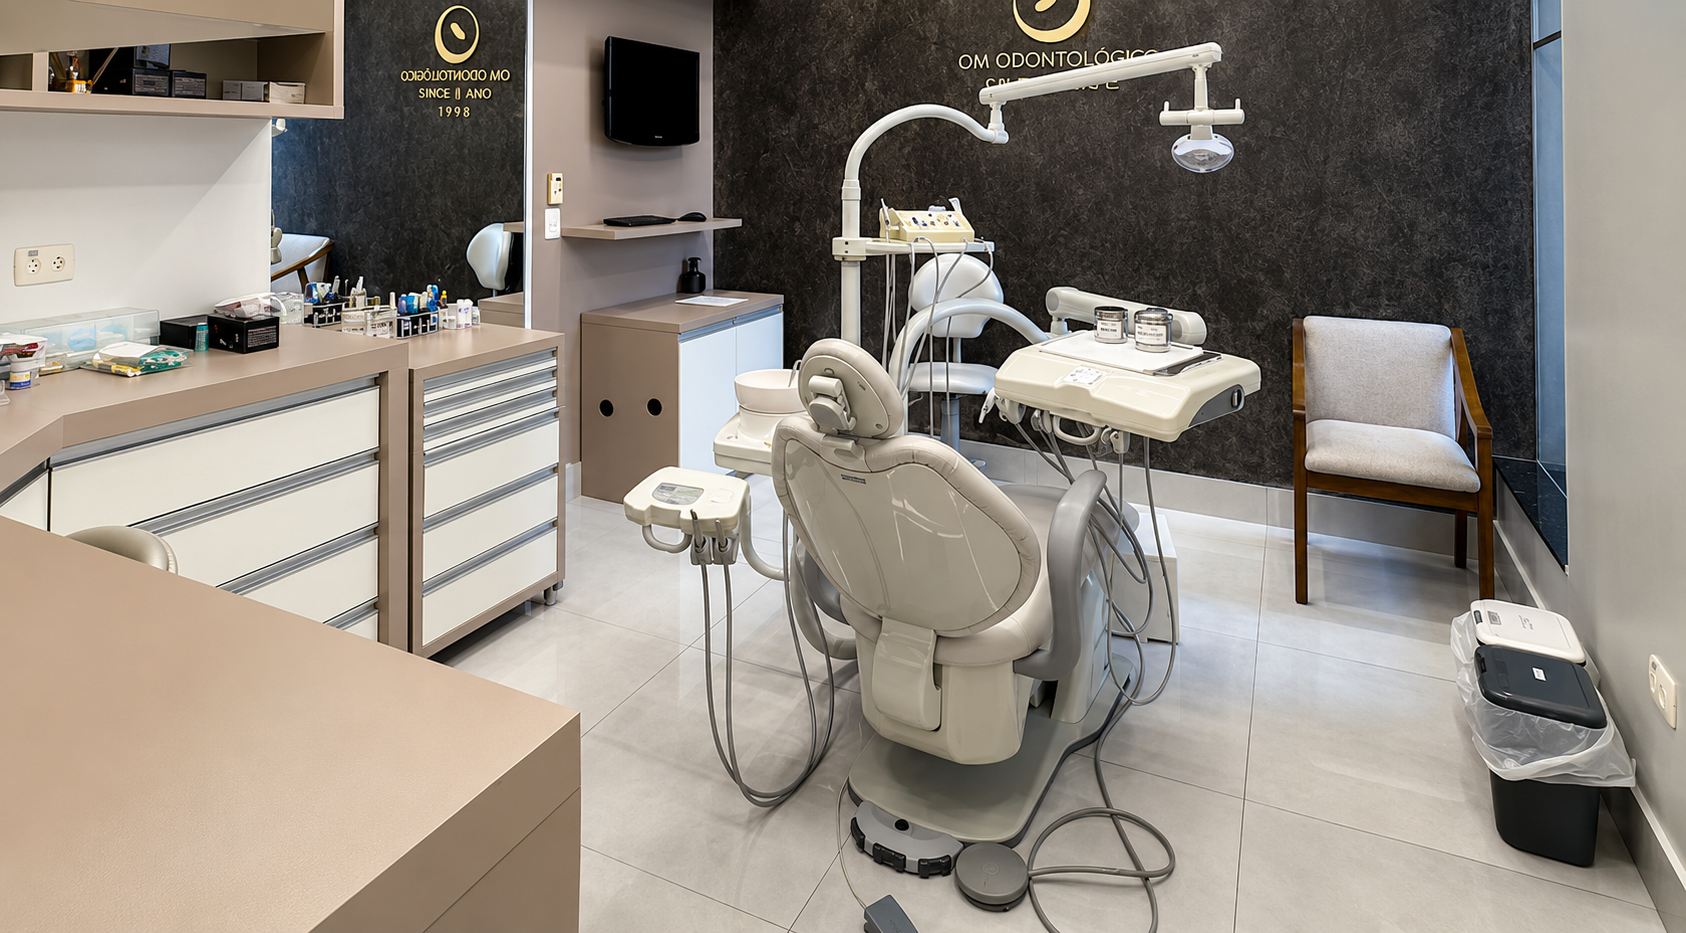
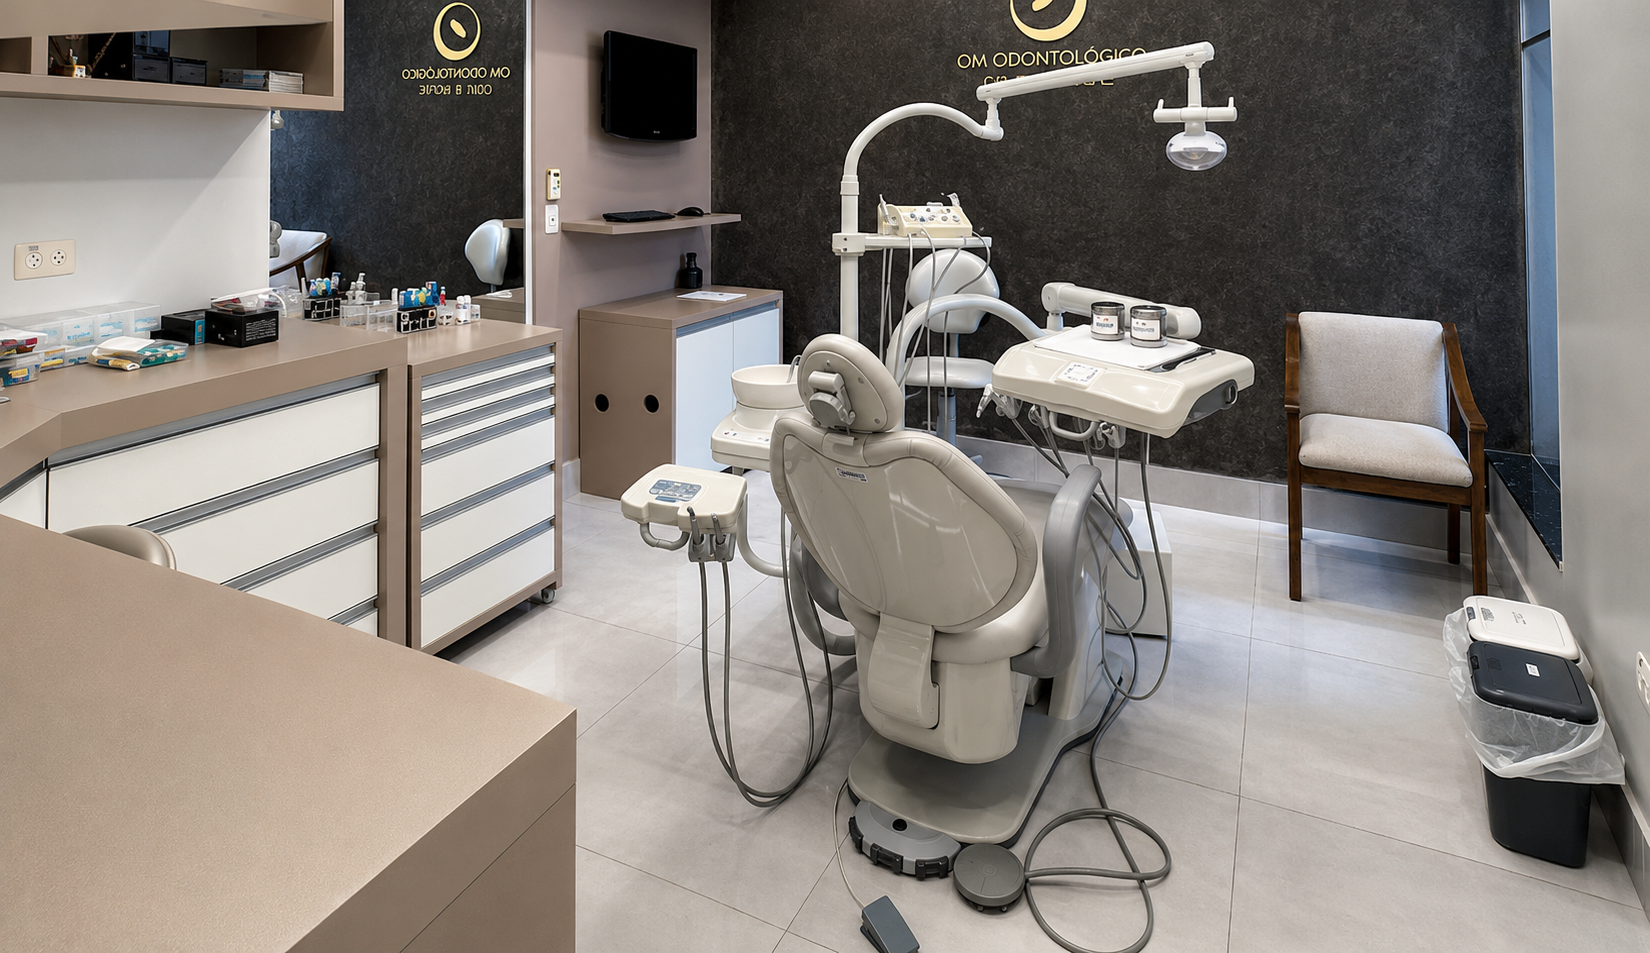
Remocao da subpagina estrutura, centralizacao do conteudo de exames/tecnologia na pagina A Clinica e atualizacao da foto como-funciona

diff --git a/a-clinica/index.html b/a-clinica/index.html
@@ -40,7 +40,6 @@
       <a href="/tratamentos/">Tratamentos</a>
       <a href="/como-funciona-o-atendimento/">Como funciona</a>
       <a href="/especialistas/">Especialistas</a>
-      <a href="/estrutura-e-tecnologia/">Estrutura</a>
       <a href="/a-clinica/">A clínica</a>
       <a href="/duvidas-frequentes/">Dúvidas</a>
     </nav>
@@ -58,24 +57,72 @@
     <a href="/tratamentos/">Tratamentos</a>
     <a href="/como-funciona-o-atendimento/">Como funciona</a>
     <a href="/especialistas/">Especialistas</a>
-    <a href="/estrutura-e-tecnologia/">Estrutura</a>
     <a href="/a-clinica/">A clínica</a>
     <a href="/duvidas-frequentes/">Dúvidas</a>
     <a class="mobile-menu__cta" href="https://wa.me/5514998659506" target="_blank" rel="noopener">Agendar avaliação</a>
   </nav>
 </header>
 <main id="conteudo">
-<section class="page-hero"><div class="page-hero__shell"><div class="breadcrumbs"><a href="/">Início</a> / A clínica</div><span class="eyebrow">Rua A de Souza Castro, 92</span><h1>Veja o espaço antes de chegar.</h1><p>Conheça nossa clínica moderna em Garça/SP: ambientes climatizados, laboratório integrado, radiologia própria e total acessibilidade.</p></div></section>
+<section class="page-hero">
+  <div class="page-hero__shell">
+    <div class="breadcrumbs"><a href="/">Início</a> / A clínica</div>
+    <span class="eyebrow">Rua A de Souza Castro, 92 — Garça/SP</span>
+    <h1>Estrutura completa e tecnologia de ponta no mesmo lugar.</h1>
+    <p>Conheça nossa clínica em Garça: ambientes climatizados, equipe multidisciplinar, radiologia própria e diagnóstico digital para o seu tratamento.</p>
+  </div>
+</section>
+
 <section class="section section--white">
-  <div class="section-shell">
-    <div class="hero-img-box" style="margin-bottom:40px; border-radius:24px; overflow:hidden; border:1px solid var(--line); box-shadow:var(--shadow);">
-      <img src="/assets/img/foto-hero-oral-medic.png" alt="Fachada da Clínica Odontológica Oral & Medic em Garça" style="width:100%; max-height:560px; object-fit:cover; display:block;">
+  <div class="section-shell page-grid">
+    <div>
+      <div class="hero-img-box" style="margin-bottom:36px; border-radius:24px; overflow:hidden; border:1px solid var(--line); box-shadow:var(--shadow);">
+        <img src="/assets/img/foto-hero-oral-medic.png" alt="Fachada da Clínica Odontológica Oral & Medic em Garça" style="width:100%; max-height:520px; object-fit:cover; display:block;">
+      </div>
+
+      <article class="rich-text">
+        <h2>Exames e Diagnóstico na Própria Clínica</h2>
+        <p>Na Oral &amp; Medic, você não precisa se deslocar a centros de radiologia externos para realizar seus exames. Nossa estrutura em Garça foi planejada para reunir diagnóstico preciso e execução de tratamentos no mesmo endereço com total praticidade.</p>
+
+        <h3>Equipamentos e Recursos Tecnológicos</h3>
+        <ul>
+          <li><strong>Tomografia Tridimensional (3D):</strong> Imagens de alta definição para análise minuciosa da estrutura óssea, essenciais no planejamento de próteses protocolo e implantes dentários.</li>
+          <li><strong>Raio-X Panorâmico Digital:</strong> Visão completa das arcadas dentárias e estruturas faciais obtida em minutos durante a sua consulta.</li>
+          <li><strong>Escaneamento Intraoral 3D:</strong> Moldagem digital sem uso de massas desconfortáveis, capturando cada detalhe dos dentes para planejamento de alinhadores transparentes e facetas.</li>
+          <li><strong>Câmera Intraoral HD e Impressão 3D:</strong> Visualização ampliada do dente em tela para o paciente acompanhar o diagnóstico, além de impressão 3D para suporte em guias e componentes.</li>
+          <li><strong>Ambientes Climatizados e Acessibilidade:</strong> Consultórios privativos modernos, biossegurança rigorosa, recepção confortável e total acessibilidade.</li>
+        </ul>
+      </article>
+
+      <div class="cta-band" style="margin-top:40px;">
+        <h2>Visite a Oral &amp; Medic em Garça</h2>
+        <p>Rua A de Souza Castro, 92 — CEP 17402-050 — Garça/SP.<br>Telefone Fixo: (14) 3471-3759 | WhatsApp: (14) 99865-9506</p>
+        <a class="button button--dark" href="/contato/">Ver contato e mapa de localização</a>
+      </div>
     </div>
-    <div class="cta-band">
-      <h2>Oral &amp; Medic em Garça</h2>
-      <p>Rua A de Souza Castro, 92 — CEP 17402-050.</p>
-      <a class="button button--dark" href="/contato/">Ver contato e mapa</a>
-    </div>
+
+    <aside>
+      <div class="content-card" style="position:sticky; top:110px;">
+        <h3>Diferenciais da Estrutura</h3>
+        <div class="facts">
+          <div class="fact">
+            <strong>Exames no Local</strong>
+            <p>Tomografia 3D e Raio-X Panorâmico sem sair da clínica.</p>
+          </div>
+          <div class="fact">
+            <strong>Planejamento 3D</strong>
+            <p>Escaneamento digital e simulação do resultado.</p>
+          </div>
+          <div class="fact">
+            <strong>Corpo Clínico</strong>
+            <p>Especialistas dedicados a cada tipo de procedimento.</p>
+          </div>
+          <div class="fact">
+            <strong>Localização</strong>
+            <p>Fácil acesso na Rua A de Souza Castro, 92 — Garça/SP.</p>
+          </div>
+        </div>
+      </div>
+    </aside>
   </div>
 </section></main>
 <footer class="site-footer">
@@ -99,7 +146,7 @@
       <h2>Conheça</h2>
       <a href="/sobre-a-oral-medic/">Sobre a Oral &amp; Medic</a>
       <a href="/especialistas/">Especialistas</a>
-      <a href="/estrutura-e-tecnologia/">Estrutura e Tecnologia</a>
+      <a href="/a-clinica/">A Clínica</a>
       <a href="/duvidas-frequentes/">Dúvidas Frequentes</a>
     </div>
     <div>

diff --git a/index.html b/index.html
@@ -50,7 +50,6 @@
       <a href="/tratamentos/">Tratamentos</a>
       <a href="/como-funciona-o-atendimento/">Como funciona</a>
       <a href="/especialistas/">Especialistas</a>
-      <a href="/estrutura-e-tecnologia/">Estrutura</a>
       <a href="/a-clinica/">A clínica</a>
       <a href="/duvidas-frequentes/">Dúvidas</a>
     </nav>
@@ -68,7 +67,6 @@
     <a href="/tratamentos/">Tratamentos</a>
     <a href="/como-funciona-o-atendimento/">Como funciona</a>
     <a href="/especialistas/">Especialistas</a>
-    <a href="/estrutura-e-tecnologia/">Estrutura</a>
     <a href="/a-clinica/">A clínica</a>
     <a href="/duvidas-frequentes/">Dúvidas</a>
     <a class="mobile-menu__cta" href="https://wa.me/5514998659506" target="_blank" rel="noopener">Agendar avaliação</a>
@@ -402,12 +400,12 @@
       <small style="color:var(--gold);">Conforto &amp; Acessibilidade</small>
     </div>
    </article>
-   <article class="team-card team-card--cta">
-    <span class="eyebrow" style="color:var(--gold);">Nossa Estrutura</span>
-    <h3>Conheça nossa estrutura completa</h3>
-    <p>Veja os detalhes de nossa clínica com radiologia própria, tomografia 3D e laboratório integrado.</p>
-    <a class="button button--light" href="/estrutura-e-tecnologia/" style="white-space:nowrap;width:100%;">Ver estrutura completa ↗</a>
-   </article>
+    <article class="team-card team-card--cta">
+     <span class="eyebrow" style="color:var(--gold);">Nossa Estrutura</span>
+     <h3>Conheça nossa estrutura completa</h3>
+     <p>Veja os detalhes de nossa clínica com radiologia própria, tomografia 3D e diagnóstico digital.</p>
+     <a class="button button--light" href="/a-clinica/" style="white-space:nowrap;width:100%;">Conhecer A Clínica ↗</a>
+    </article>
   </div>
  </div>
 </section>
@@ -669,7 +667,7 @@
       <h2>Conheça</h2>
       <a href="/sobre-a-oral-medic/">Sobre a Oral &amp; Medic</a>
       <a href="/especialistas/">Especialistas</a>
-      <a href="/estrutura-e-tecnologia/">Estrutura e Tecnologia</a>
+      <a href="/a-clinica/">A Clínica</a>
       <a href="/duvidas-frequentes/">Dúvidas Frequentes</a>
     </div>
     <div>

diff --git a/especialistas/index.html b/especialistas/index.html
@@ -40,7 +40,6 @@
       <a href="/tratamentos/">Tratamentos</a>
       <a href="/como-funciona-o-atendimento/">Como funciona</a>
       <a href="/especialistas/">Especialistas</a>
-      <a href="/estrutura-e-tecnologia/">Estrutura</a>
       <a href="/a-clinica/">A clínica</a>
       <a href="/duvidas-frequentes/">Dúvidas</a>
     </nav>
@@ -58,7 +57,6 @@
     <a href="/tratamentos/">Tratamentos</a>
     <a href="/como-funciona-o-atendimento/">Como funciona</a>
     <a href="/especialistas/">Especialistas</a>
-    <a href="/estrutura-e-tecnologia/">Estrutura</a>
     <a href="/a-clinica/">A clínica</a>
     <a href="/duvidas-frequentes/">Dúvidas</a>
     <a class="mobile-menu__cta" href="https://wa.me/5514998659506" target="_blank" rel="noopener">Agendar avaliação</a>
@@ -140,7 +138,7 @@
       <h2>Conheça</h2>
       <a href="/sobre-a-oral-medic/">Sobre a Oral &amp; Medic</a>
       <a href="/especialistas/">Especialistas</a>
-      <a href="/estrutura-e-tecnologia/">Estrutura e Tecnologia</a>
+      <a href="/a-clinica/">A Clínica</a>
       <a href="/duvidas-frequentes/">Dúvidas Frequentes</a>
     </div>
     <div>

diff --git a/tratamentos/index.html b/tratamentos/index.html
@@ -44,7 +44,6 @@
       <a href="/tratamentos/">Tratamentos</a>
       <a href="/como-funciona-o-atendimento/">Como funciona</a>
       <a href="/especialistas/">Especialistas</a>
-      <a href="/estrutura-e-tecnologia/">Estrutura</a>
       <a href="/a-clinica/">A clínica</a>
       <a href="/duvidas-frequentes/">Dúvidas</a>
     </nav>
@@ -62,7 +61,6 @@
     <a href="/tratamentos/">Tratamentos</a>
     <a href="/como-funciona-o-atendimento/">Como funciona</a>
     <a href="/especialistas/">Especialistas</a>
-    <a href="/estrutura-e-tecnologia/">Estrutura</a>
     <a href="/a-clinica/">A clínica</a>
     <a href="/duvidas-frequentes/">Dúvidas</a>
     <a class="mobile-menu__cta" href="https://wa.me/5514998659506" target="_blank" rel="noopener">Agendar avaliação</a>
@@ -166,7 +164,7 @@
       <h2>Conheça</h2>
       <a href="/sobre-a-oral-medic/">Sobre a Oral &amp; Medic</a>
       <a href="/especialistas/">Especialistas</a>
-      <a href="/estrutura-e-tecnologia/">Estrutura e Tecnologia</a>
+      <a href="/a-clinica/">A Clínica</a>
       <a href="/duvidas-frequentes/">Dúvidas Frequentes</a>
     </div>
     <div>

diff --git a/tratamentos/protese-protocolo/index.html b/tratamentos/protese-protocolo/index.html
@@ -40,7 +40,6 @@
       <a href="/tratamentos/">Tratamentos</a>
       <a href="/como-funciona-o-atendimento/">Como funciona</a>
       <a href="/especialistas/">Especialistas</a>
-      <a href="/estrutura-e-tecnologia/">Estrutura</a>
       <a href="/a-clinica/">A clínica</a>
       <a href="/duvidas-frequentes/">Dúvidas</a>
     </nav>
@@ -58,7 +57,6 @@
     <a href="/tratamentos/">Tratamentos</a>
     <a href="/como-funciona-o-atendimento/">Como funciona</a>
     <a href="/especialistas/">Especialistas</a>
-    <a href="/estrutura-e-tecnologia/">Estrutura</a>
     <a href="/a-clinica/">A clínica</a>
     <a href="/duvidas-frequentes/">Dúvidas</a>
     <a class="mobile-menu__cta" href="https://wa.me/5514998659506" target="_blank" rel="noopener">Agendar avaliação</a>
@@ -219,7 +217,7 @@
       <h2>Conheça</h2>
       <a href="/sobre-a-oral-medic/">Sobre a Oral &amp; Medic</a>
       <a href="/especialistas/">Especialistas</a>
-      <a href="/estrutura-e-tecnologia/">Estrutura e Tecnologia</a>
+      <a href="/a-clinica/">A Clínica</a>
       <a href="/duvidas-frequentes/">Dúvidas Frequentes</a>
     </div>
     <div>

diff --git a/tratamentos/alinhadores-transparentes/index.html b/tratamentos/alinhadores-transparentes/index.html
@@ -40,7 +40,6 @@
       <a href="/tratamentos/">Tratamentos</a>
       <a href="/como-funciona-o-atendimento/">Como funciona</a>
       <a href="/especialistas/">Especialistas</a>
-      <a href="/estrutura-e-tecnologia/">Estrutura</a>
       <a href="/a-clinica/">A clínica</a>
       <a href="/duvidas-frequentes/">Dúvidas</a>
     </nav>
@@ -58,7 +57,6 @@
     <a href="/tratamentos/">Tratamentos</a>
     <a href="/como-funciona-o-atendimento/">Como funciona</a>
     <a href="/especialistas/">Especialistas</a>
-    <a href="/estrutura-e-tecnologia/">Estrutura</a>
     <a href="/a-clinica/">A clínica</a>
     <a href="/duvidas-frequentes/">Dúvidas</a>
     <a class="mobile-menu__cta" href="https://wa.me/5514998659506" target="_blank" rel="noopener">Agendar avaliação</a>
@@ -101,7 +99,7 @@
       <h2>Conheça</h2>
       <a href="/sobre-a-oral-medic/">Sobre a Oral &amp; Medic</a>
       <a href="/especialistas/">Especialistas</a>
-      <a href="/estrutura-e-tecnologia/">Estrutura e Tecnologia</a>
+      <a href="/a-clinica/">A Clínica</a>
       <a href="/duvidas-frequentes/">Dúvidas Frequentes</a>
     </div>
     <div>

diff --git a/tratamentos/coroas-dentarias/index.html b/tratamentos/coroas-dentarias/index.html
@@ -40,7 +40,6 @@
       <a href="/tratamentos/">Tratamentos</a>
       <a href="/como-funciona-o-atendimento/">Como funciona</a>
       <a href="/especialistas/">Especialistas</a>
-      <a href="/estrutura-e-tecnologia/">Estrutura</a>
       <a href="/a-clinica/">A clínica</a>
       <a href="/duvidas-frequentes/">Dúvidas</a>
     </nav>
@@ -58,7 +57,6 @@
     <a href="/tratamentos/">Tratamentos</a>
     <a href="/como-funciona-o-atendimento/">Como funciona</a>
     <a href="/especialistas/">Especialistas</a>
-    <a href="/estrutura-e-tecnologia/">Estrutura</a>
     <a href="/a-clinica/">A clínica</a>
     <a href="/duvidas-frequentes/">Dúvidas</a>
     <a class="mobile-menu__cta" href="https://wa.me/5514998659506" target="_blank" rel="noopener">Agendar avaliação</a>
@@ -101,7 +99,7 @@
       <h2>Conheça</h2>
       <a href="/sobre-a-oral-medic/">Sobre a Oral &amp; Medic</a>
       <a href="/especialistas/">Especialistas</a>
-      <a href="/estrutura-e-tecnologia/">Estrutura e Tecnologia</a>
+      <a href="/a-clinica/">A Clínica</a>
       <a href="/duvidas-frequentes/">Dúvidas Frequentes</a>
     </div>
     <div>

diff --git a/tratamentos/facetas-de-porcelana/index.html b/tratamentos/facetas-de-porcelana/index.html
@@ -40,7 +40,6 @@
       <a href="/tratamentos/">Tratamentos</a>
       <a href="/como-funciona-o-atendimento/">Como funciona</a>
       <a href="/especialistas/">Especialistas</a>
-      <a href="/estrutura-e-tecnologia/">Estrutura</a>
       <a href="/a-clinica/">A clínica</a>
       <a href="/duvidas-frequentes/">Dúvidas</a>
     </nav>
@@ -58,7 +57,6 @@
     <a href="/tratamentos/">Tratamentos</a>
     <a href="/como-funciona-o-atendimento/">Como funciona</a>
     <a href="/especialistas/">Especialistas</a>
-    <a href="/estrutura-e-tecnologia/">Estrutura</a>
     <a href="/a-clinica/">A clínica</a>
     <a href="/duvidas-frequentes/">Dúvidas</a>
     <a class="mobile-menu__cta" href="https://wa.me/5514998659506" target="_blank" rel="noopener">Agendar avaliação</a>
@@ -101,7 +99,7 @@
       <h2>Conheça</h2>
       <a href="/sobre-a-oral-medic/">Sobre a Oral &amp; Medic</a>
       <a href="/especialistas/">Especialistas</a>
-      <a href="/estrutura-e-tecnologia/">Estrutura e Tecnologia</a>
+      <a href="/a-clinica/">A Clínica</a>
       <a href="/duvidas-frequentes/">Dúvidas Frequentes</a>
     </div>
     <div>

diff --git a/tratamentos/facetas-de-resina/index.html b/tratamentos/facetas-de-resina/index.html
@@ -40,7 +40,6 @@
       <a href="/tratamentos/">Tratamentos</a>
       <a href="/como-funciona-o-atendimento/">Como funciona</a>
       <a href="/especialistas/">Especialistas</a>
-      <a href="/estrutura-e-tecnologia/">Estrutura</a>
       <a href="/a-clinica/">A clínica</a>
       <a href="/duvidas-frequentes/">Dúvidas</a>
     </nav>
@@ -58,7 +57,6 @@
     <a href="/tratamentos/">Tratamentos</a>
     <a href="/como-funciona-o-atendimento/">Como funciona</a>
     <a href="/especialistas/">Especialistas</a>
-    <a href="/estrutura-e-tecnologia/">Estrutura</a>
     <a href="/a-clinica/">A clínica</a>
     <a href="/duvidas-frequentes/">Dúvidas</a>
     <a class="mobile-menu__cta" href="https://wa.me/5514998659506" target="_blank" rel="noopener">Agendar avaliação</a>
@@ -101,7 +99,7 @@
       <h2>Conheça</h2>
       <a href="/sobre-a-oral-medic/">Sobre a Oral &amp; Medic</a>
       <a href="/especialistas/">Especialistas</a>
-      <a href="/estrutura-e-tecnologia/">Estrutura e Tecnologia</a>
+      <a href="/a-clinica/">A Clínica</a>
       <a href="/duvidas-frequentes/">Dúvidas Frequentes</a>
     </div>
     <div>

diff --git a/tratamentos/implantes-dentarios/index.html b/tratamentos/implantes-dentarios/index.html
@@ -40,7 +40,6 @@
       <a href="/tratamentos/">Tratamentos</a>
       <a href="/como-funciona-o-atendimento/">Como funciona</a>
       <a href="/especialistas/">Especialistas</a>
-      <a href="/estrutura-e-tecnologia/">Estrutura</a>
       <a href="/a-clinica/">A clínica</a>
       <a href="/duvidas-frequentes/">Dúvidas</a>
     </nav>
@@ -58,7 +57,6 @@
     <a href="/tratamentos/">Tratamentos</a>
     <a href="/como-funciona-o-atendimento/">Como funciona</a>
     <a href="/especialistas/">Especialistas</a>
-    <a href="/estrutura-e-tecnologia/">Estrutura</a>
     <a href="/a-clinica/">A clínica</a>
     <a href="/duvidas-frequentes/">Dúvidas</a>
     <a class="mobile-menu__cta" href="https://wa.me/5514998659506" target="_blank" rel="noopener">Agendar avaliação</a>
@@ -101,7 +99,7 @@
       <h2>Conheça</h2>
       <a href="/sobre-a-oral-medic/">Sobre a Oral &amp; Medic</a>
       <a href="/especialistas/">Especialistas</a>
-      <a href="/estrutura-e-tecnologia/">Estrutura e Tecnologia</a>
+      <a href="/a-clinica/">A Clínica</a>
       <a href="/duvidas-frequentes/">Dúvidas Frequentes</a>
     </div>
     <div>

diff --git a/tratamentos/tratamento-de-canal/index.html b/tratamentos/tratamento-de-canal/index.html
@@ -40,7 +40,6 @@
       <a href="/tratamentos/">Tratamentos</a>
       <a href="/como-funciona-o-atendimento/">Como funciona</a>
       <a href="/especialistas/">Especialistas</a>
-      <a href="/estrutura-e-tecnologia/">Estrutura</a>
       <a href="/a-clinica/">A clínica</a>
       <a href="/duvidas-frequentes/">Dúvidas</a>
     </nav>
@@ -58,7 +57,6 @@
     <a href="/tratamentos/">Tratamentos</a>
     <a href="/como-funciona-o-atendimento/">Como funciona</a>
     <a href="/especialistas/">Especialistas</a>
-    <a href="/estrutura-e-tecnologia/">Estrutura</a>
     <a href="/a-clinica/">A clínica</a>
     <a href="/duvidas-frequentes/">Dúvidas</a>
     <a class="mobile-menu__cta" href="https://wa.me/5514998659506" target="_blank" rel="noopener">Agendar avaliação</a>
@@ -101,7 +99,7 @@
       <h2>Conheça</h2>
       <a href="/sobre-a-oral-medic/">Sobre a Oral &amp; Medic</a>
       <a href="/especialistas/">Especialistas</a>
-      <a href="/estrutura-e-tecnologia/">Estrutura e Tecnologia</a>
+      <a href="/a-clinica/">A Clínica</a>
       <a href="/duvidas-frequentes/">Dúvidas Frequentes</a>
     </div>
     <div>

diff --git a/404.html b/404.html
@@ -40,7 +40,6 @@
       <a href="/tratamentos/">Tratamentos</a>
       <a href="/como-funciona-o-atendimento/">Como funciona</a>
       <a href="/especialistas/">Especialistas</a>
-      <a href="/estrutura-e-tecnologia/">Estrutura</a>
       <a href="/a-clinica/">A clínica</a>
       <a href="/duvidas-frequentes/">Dúvidas</a>
     </nav>
@@ -58,7 +57,6 @@
     <a href="/tratamentos/">Tratamentos</a>
     <a href="/como-funciona-o-atendimento/">Como funciona</a>
     <a href="/especialistas/">Especialistas</a>
-    <a href="/estrutura-e-tecnologia/">Estrutura</a>
     <a href="/a-clinica/">A clínica</a>
     <a href="/duvidas-frequentes/">Dúvidas</a>
     <a class="mobile-menu__cta" href="https://wa.me/5514998659506" target="_blank" rel="noopener">Agendar avaliação</a>
@@ -86,7 +84,7 @@
       <h2>Conheça</h2>
       <a href="/sobre-a-oral-medic/">Sobre a Oral &amp; Medic</a>
       <a href="/especialistas/">Especialistas</a>
-      <a href="/estrutura-e-tecnologia/">Estrutura e Tecnologia</a>
+      <a href="/a-clinica/">A Clínica</a>
       <a href="/duvidas-frequentes/">Dúvidas Frequentes</a>
     </div>
     <div>
